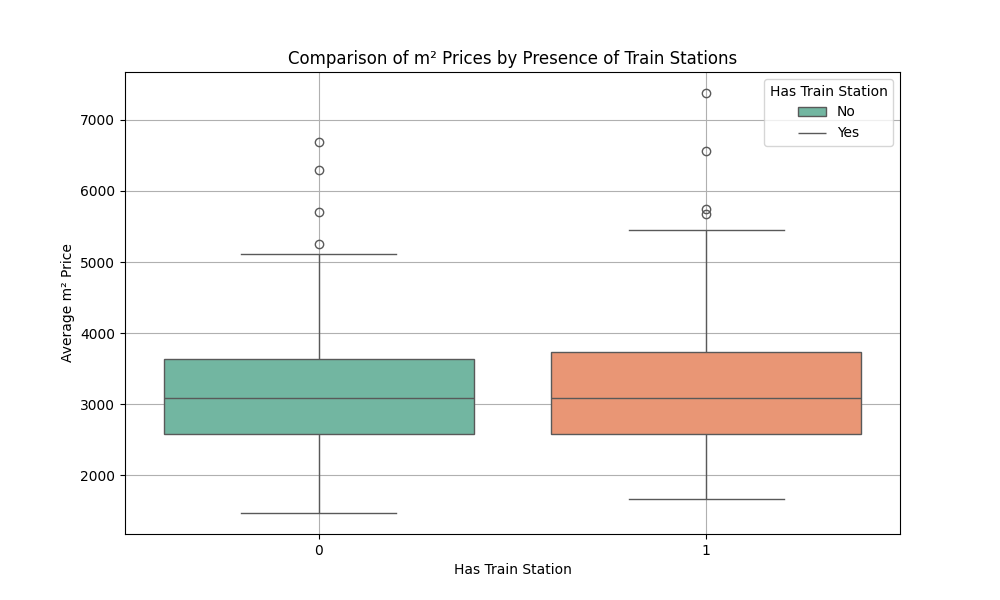
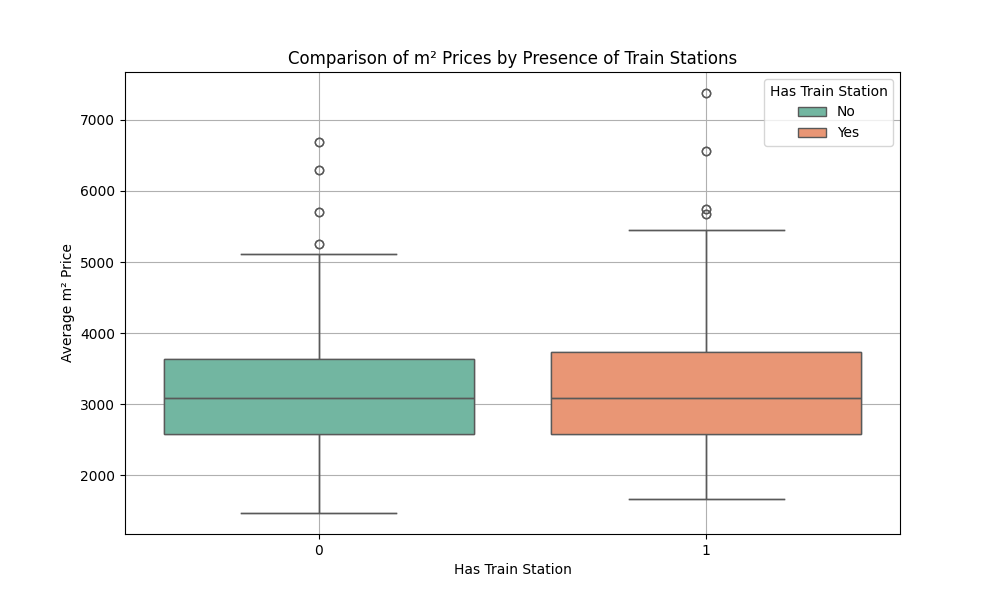
fix legend on boxplots and delete violin plot

diff --git a/src/analysis/phase_1/plots.py b/src/analysis/phase_1/plots.py
@@ -24,25 +24,17 @@ def plots_station_no_station(df: pd.DataFrame) -> None:
 
     # Create boxplot to visualize the difference in m² prices
     plt.figure(figsize=(10, 6))
+    ax = sns.boxplot(data=df, x='has_station', y='m2_price', hue='has_station')
     sns.boxplot(data=df, x='has_station', y='m2_price', hue='has_station')
     plt.xlabel('Has Train Station')
     plt.ylabel('Average m² Price')
     plt.title('Comparison of m² Prices by Presence of Train Stations')
     plt.grid(True)
-    plt.legend(title='Has Train Station', loc='upper right', labels=['No', 'Yes'])
+
+    handles, _ = ax.get_legend_handles_labels()
+    ax.legend(handles=handles, title='Has Train Station', loc='upper right', labels=['No', 'Yes'])
 
     plt.savefig(os.path.join(output_path, 'boxplot.png'))
-
-    # Violin Plot
-    plt.figure(figsize=(10, 6))
-    sns.violinplot(data=df, x='has_station', y='m2_price', hue='has_station', inner='box')
-    plt.xlabel('Has Train Station')
-    plt.ylabel('Average m² Price')
-    plt.title('Comparison of m² Prices by Presence of Train Stations')
-    plt.grid(True)
-    plt.legend(title='Has Train Station', loc='upper right', labels=['No', 'Yes'])
-
-    plt.savefig(os.path.join(output_path, 'violin.png'))
 
 def scatter_plots(df: pd.DataFrame) -> None:
     """
